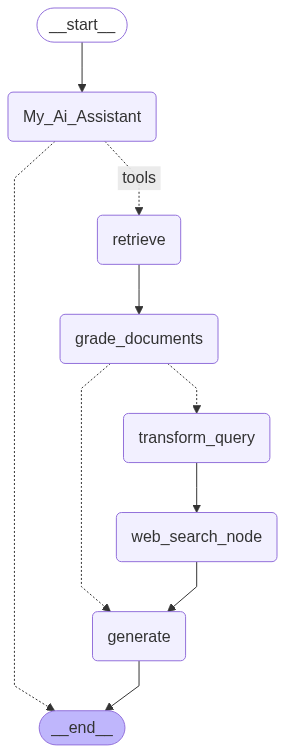
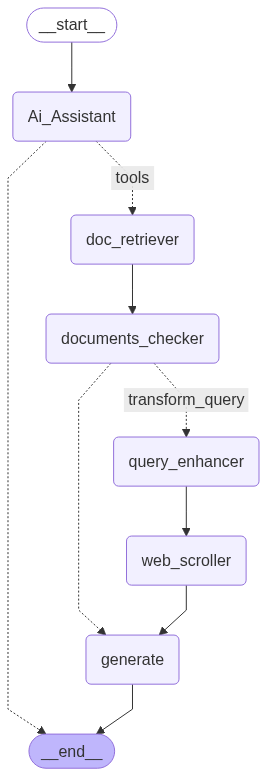
modified code

diff --git a/bot.py b/bot.py
@@ -786,30 +786,30 @@ class chatbot:
         workflow = StateGraph(GraphState)
 
         # Define the nodes
-        workflow.add_node("retrieve", self.retriever_func)  # retrieve
-        workflow.add_node("My_Ai_Assistant",self.ai_assistant)
-        workflow.add_node("grade_documents", self.grade_documents)  # grade documents
+        workflow.add_node("doc_retriever", self.retriever_func)  # retrieve
+        workflow.add_node("Ai_Assistant",self.ai_assistant)
+        workflow.add_node("documents_checker", self.grade_documents)  # grade documents
         workflow.add_node("generate", self.generate)  # generatae
-        workflow.add_node("transform_query", self.transform_query)  # transform_query
-        workflow.add_node("web_search_node", self.web_search)  # web search
+        workflow.add_node("query_enhancer", self.transform_query)  # transform_query
+        workflow.add_node("web_scroller", self.web_search)  # web search
 
         # Build graph
-        workflow.add_edge(START,"My_Ai_Assistant")
-        workflow.add_conditional_edges("My_Ai_Assistant",
+        workflow.add_edge(START,"Ai_Assistant")
+        workflow.add_conditional_edges("Ai_Assistant",
                             self.custom_tools_condition,
-                            {"tools": "retrieve",
+                            {"tools": "doc_retriever",
                                 END: END})
-        workflow.add_edge("retrieve", "grade_documents")
+        workflow.add_edge("doc_retriever", "documents_checker")
         workflow.add_conditional_edges(
-            "grade_documents",
+            "documents_checker",
             self.decide_to_generate,
             {
-                "transform_query": "transform_query",
+                "transform_query": "query_enhancer",
                 "generate": "generate",
             },
         )
-        workflow.add_edge("transform_query", "web_search_node")
-        workflow.add_edge("web_search_node", "generate")
+        workflow.add_edge("query_enhancer", "web_scroller")
+        workflow.add_edge("web_scroller", "generate")
         workflow.add_edge("generate", END)
         
 
